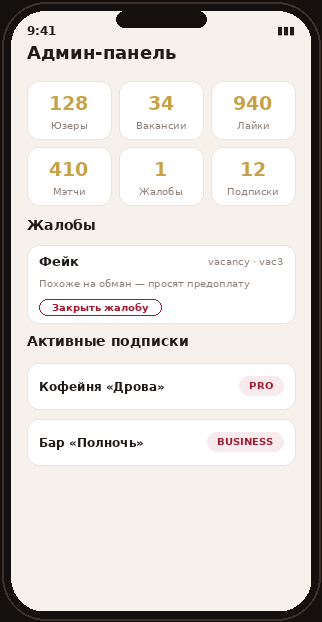
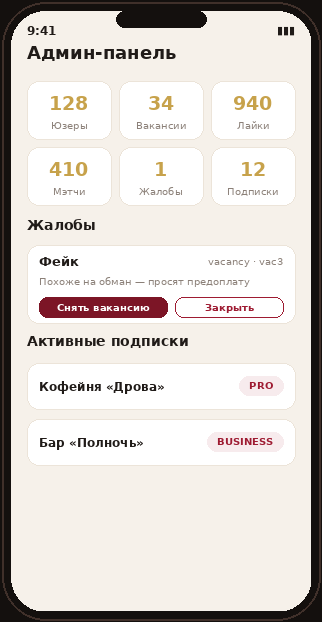
feat(модерация): блокировка нарушителей в админке
По вопросу «что делать с мошенником/фейком»: раньше жалобу можно было только
закрыть. Добавлены реальные действия:
- backend: флаг blocked у User/Employer (+миграция); /admin/users/{id}/block
  (бан соискателя/работодателя — заблокированный не может войти, его вакансии
  снимаются), /admin/vacancies/{id}/block (снять фейковую смену — исчезает из
  ленты). Блокировка авто-закрывает связанные жалобы. Заблокированные кандидаты
  скрыты из ленты работодателя. Тест на бан вакансии и пользователя.
- TMA: в карточке жалобы кнопки «🚫 Снять вакансию» / «🚫 Заблокировать»
  (по типу жалобы) + «Закрыть». endpoints/mock.

backend 45 тестов + ruff + миграции, TMA lint+typecheck+test+build — зелёные.

Claude-Session: https://claude.ai/code/session_01SsK4JkXHc9STqXAAu9aqgD

Changed region(s): [[0.1242, 0.4277, 0.559, 0.5193], [0.5901, 0.4277, 0.8075, 0.5193]]

diff --git a/tma/src/features/admin/AdminPage.tsx b/tma/src/features/admin/AdminPage.tsx
@@ -2,6 +2,8 @@ import { useEffect } from "react";
 import { useNavigate } from "react-router-dom";
 import { useQuery, useQueryClient } from "@tanstack/react-query";
 import {
+  blockUser,
+  blockVacancy,
   fetchAdminOverview,
   fetchAdminReports,
   fetchAdminSubscriptions,
@@ -43,12 +45,28 @@ export function AdminPage() {
     queryFn: fetchAdminSubscriptions,
   });
 
+  function refresh() {
+    qc.invalidateQueries({ queryKey: ["admin-reports"] });
+    qc.invalidateQueries({ queryKey: ["admin-overview"] });
+  }
+
   async function resolve(id: string) {
     haptic("success");
     await resolveReport(id);
     toast("Жалоба закрыта", "success");
-    qc.invalidateQueries({ queryKey: ["admin-reports"] });
-    qc.invalidateQueries({ queryKey: ["admin-overview"] });
+    refresh();
+  }
+
+  async function blockTarget(type: string, targetId: string) {
+    haptic("success");
+    if (type === "vacancy") {
+      await blockVacancy(targetId);
+      toast("Вакансия снята с публикации", "success");
+    } else {
+      await blockUser(targetId);
+      toast("Пользователь заблокирован", "success");
+    }
+    refresh();
   }
 
   // 403 для не-админа → показываем заглушку.
@@ -106,13 +124,29 @@ export function AdminPage() {
               </span>
             </div>
             {r.text && <div className="muted" style={{ margin: "6px 0" }}>{r.text}</div>}
-            <button
-              className="btn ghost"
-              style={{ marginTop: 8 }}
-              onClick={() => resolve(r.id)}
-            >
-              Закрыть жалобу
-            </button>
+            <div className="row" style={{ gap: 8, marginTop: 8 }}>
+              {r.targetType === "vacancy" && (
+                <button
+                  className="btn"
+                  style={{ background: "var(--crimson-dark)" }}
+                  onClick={() => blockTarget("vacancy", r.targetId)}
+                >
+                  🚫 Снять вакансию
+                </button>
+              )}
+              {r.targetType === "user" && (
+                <button
+                  className="btn"
+                  style={{ background: "var(--crimson-dark)" }}
+                  onClick={() => blockTarget("user", r.targetId)}
+                >
+                  🚫 Заблокировать
+                </button>
+              )}
+              <button className="btn ghost" onClick={() => resolve(r.id)}>
+                Закрыть жалобу
+              </button>
+            </div>
           </div>
         ))}
       </div>

diff --git a/tma/src/api/endpoints.ts b/tma/src/api/endpoints.ts
@@ -297,6 +297,18 @@ export async function resolveReport(id: string): Promise<void> {
   await api.post(`/admin/reports/${id}/resolve`, {});
 }
 
+/** Заблокировать пользователя (соискателя/работодателя). */
+export async function blockUser(userId: string): Promise<void> {
+  if (!USE_BACKEND) return mock.resolveReport("");
+  await api.post(`/admin/users/${userId}/block`, {});
+}
+
+/** Снять вакансию (фейк/обман) с публикации. */
+export async function blockVacancy(vacancyId: string): Promise<void> {
+  if (!USE_BACKEND) return mock.resolveReport("");
+  await api.post(`/admin/vacancies/${vacancyId}/block`, {});
+}
+
 export async function fetchAdminSubscriptions(): Promise<AdminSubscription[]> {
   if (!USE_BACKEND) return mock.fetchAdminSubscriptions();
   const { data } = await api.get<AdminSubscription[]>("/admin/subscriptions");

diff --git a/backend/app/routers/admin.py b/backend/app/routers/admin.py
@@ -116,6 +116,50 @@ def resolve_report(
     return {"ok": True}
 
 
+def _resolve_reports_for(db: Session, target_id: str) -> None:
+    """Закрыть все открытые жалобы на эту цель."""
+    for r in db.query(Report).filter(
+        Report.target_id == target_id, Report.status == "open"
+    ).all():
+        r.status = "reviewed"
+
+
[email redacted]("/users/{user_id}/block")
+def block_user(
+    user_id: str,
+    db: Session = Depends(get_db),
+    _admin: dict = Depends(require_admin),
+):
+    """Заблокировать соискателя или работодателя (бан мошенника)."""
+    target = db.get(User, user_id) or db.get(Employer, user_id)
+    if target is None:
+        raise HTTPException(status_code=404, detail="Пользователь не найден")
+    target.blocked = True
+    # Если это работодатель — снимаем и его вакансии.
+    if isinstance(target, Employer):
+        for v in db.query(Vacancy).filter(Vacancy.employer_id == user_id).all():
+            v.status = "blocked"
+    _resolve_reports_for(db, user_id)
+    db.commit()
+    return {"ok": True, "blocked": True}
+
+
[email redacted]("/vacancies/{vacancy_id}/block")
+def block_vacancy(
+    vacancy_id: str,
+    db: Session = Depends(get_db),
+    _admin: dict = Depends(require_admin),
+):
+    """Снять вакансию (фейк/обман) — она исчезает из ленты."""
+    v = db.get(Vacancy, vacancy_id)
+    if v is None:
+        raise HTTPException(status_code=404, detail="Вакансия не найдена")
+    v.status = "blocked"
+    _resolve_reports_for(db, vacancy_id)
+    db.commit()
+    return {"ok": True, "blocked": True}
+
+
 class SubscriptionOut(BaseModel):
     ownerId: str
     company: str

diff --git a/backend/migrations/versions/52f24481daa9_add_blocked_flag.py b/backend/migrations/versions/52f24481daa9_add_blocked_flag.py
@@ -1,0 +1,34 @@
+"""add blocked flag
+
+Revision ID: 52f24481daa9
+Revises: 0c0ddf98d3eb
+Create Date: 2026-06-21 00:51:20.421333
+
+"""
+from typing import Sequence, Union
+
+from alembic import op
+import sqlalchemy as sa
+
+
+# revision identifiers, used by Alembic.
+revision: str = '52f24481daa9'
+down_revision: Union[str, Sequence[str], None] = '0c0ddf98d3eb'
+branch_labels: Union[str, Sequence[str], None] = None
+depends_on: Union[str, Sequence[str], None] = None
+
+
+def upgrade() -> None:
+    """Upgrade schema."""
+    # ### commands auto generated by Alembic - please adjust! ###
+    op.add_column('employers', sa.Column('blocked', sa.Boolean(), nullable=False))
+    op.add_column('users', sa.Column('blocked', sa.Boolean(), nullable=False))
+    # ### end Alembic commands ###
+
+
+def downgrade() -> None:
+    """Downgrade schema."""
+    # ### commands auto generated by Alembic - please adjust! ###
+    op.drop_column('users', 'blocked')
+    op.drop_column('employers', 'blocked')
+    # ### end Alembic commands ###

diff --git a/backend/tests/test_extra.py b/backend/tests/test_extra.py
@@ -186,3 +186,27 @@ def test_admin_endpoints_forbidden_for_non_admin(client):
     assert client.post("/admin/reports/any/resolve", headers=h).status_code == 403
     # Совсем без токена — тоже закрыто.
     assert client.get("/admin/overview").status_code == 401
+
+
+def test_admin_block_user_and_vacancy(client):
+    admin = client.post("/auth/telegram", json={"init_data": "", "role": "seeker"})
+    ah = {"Authorization": f"Bearer {admin.json()['access_token']}"}
+    # Работодатель + вакансия.
+    emp = client.post("/auth/telegram", json={"init_data": "", "role": "employer"})
+    eid = emp.json()["user_id"]
+    eh = {"Authorization": f"Bearer {emp.json()['access_token']}"}
+    vac = client.post("/vacancies", headers=eh, json={
+        "role": "barista", "date": "2026-06-20", "start_time": 600,
+        "end_time": 1080, "rate": 350, "city": "Москва",
+    }).json()
+    # Снять вакансию → исчезает из ленты.
+    bv = client.post(f"/admin/vacancies/{vac['id']}/block", headers=ah)
+    assert bv.status_code == 200
+    feed_ids = {v["id"] for v in client.get("/vacancies").json()}
+    assert vac["id"] not in feed_ids
+    # Заблокировать работодателя → больше не может войти.
+    assert client.post(f"/admin/users/{eid}/block", headers=ah).status_code == 200
+    blocked_login = client.post(
+        "/auth/telegram", json={"init_data": "", "role": "employer"}
+    )
+    assert blocked_login.status_code == 403

diff --git a/tool/flow_gif.py b/tool/flow_gif.py
@@ -339,9 +339,11 @@ def admin_screen():
     rr(d, [16, 234, W - 16, 312], 12, fill=CARD, outline=LINE)
     T(d, (28, 250), "Фейк", F(13, True), INK, "lm")
     T(d, (W - 28, 250), "vacancy · vac3", F(10), MUTED, "rm")
-    T(d, (28, 272), "Похоже на обман — просят предоплату", F(10.5), MUTED, "lm")
-    rr(d, [28, 288, 150, 304], 8, outline=CRIM, width=1)
-    T(d, (89, 296), "Закрыть жалобу", F(10.5, True), CRIM, "mm")
+    T(d, (28, 270), "Похоже на обман — просят предоплату", F(10.5), MUTED, "lm")
+    rr(d, [28, 286, 156, 306], 8, fill=CRIM_D)
+    T(d, (92, 296), "Снять вакансию", F(10.5, True), WHITE, "mm")
+    rr(d, [164, 286, 272, 306], 8, outline=CRIM, width=1)
+    T(d, (218, 296), "Закрыть", F(10.5, True), CRIM, "mm")
     T(d, (16, 330), "Активные подписки", F(14, True), INK, "lm")
     subs = [("Кофейня «Дрова»", "PRO"), ("Бар «Полночь»", "BUSINESS")]
     y = 352

diff --git a/backend/app/routers/telegram_auth.py b/backend/app/routers/telegram_auth.py
@@ -70,6 +70,8 @@ def telegram_login(body: TelegramAuthIn, db: Session = Depends(get_db)):
 
     if body.role == "employer":
         emp = db.query(Employer).filter(Employer.tg_id == tg_id).first()
+        if emp is not None and emp.blocked:
+            raise HTTPException(status_code=403, detail="Аккаунт заблокирован")
         if emp is None:
             emp = Employer(
                 tg_id=tg_id,
@@ -92,6 +94,8 @@ def telegram_login(body: TelegramAuthIn, db: Session = Depends(get_db)):
         )
 
     user = db.query(User).filter(User.tg_id == tg_id).first()
+    if user is not None and user.blocked:
+        raise HTTPException(status_code=403, detail="Аккаунт заблокирован")
     if user is None:
         user = User(
             tg_id=tg_id,

diff --git a/backend/app/models.py b/backend/app/models.py
@@ -50,6 +50,7 @@ class User(Base):
     rating: Mapped[float] = mapped_column(Float, default=0.0)
     photo_urls: Mapped[str] = mapped_column(Text, default="")  # csv
     about: Mapped[str] = mapped_column(Text, default="")
+    blocked: Mapped[bool] = mapped_column(Boolean, default=False)  # бан админом
     created_at: Mapped[datetime] = mapped_column(DateTime, default=_now)
 
 
@@ -74,6 +75,7 @@ class Employer(Base):
     contact_phone: Mapped[str] = mapped_column(String, default="")
     photo_url: Mapped[str] = mapped_column(String, default="")
     rating: Mapped[float] = mapped_column(Float, default=0.0)
+    blocked: Mapped[bool] = mapped_column(Boolean, default=False)  # бан админом
     created_at: Mapped[datetime] = mapped_column(DateTime, default=_now)
 
     vacancies: Mapped[list["Vacancy"]] = relationship(back_populates="employer")

diff --git a/backend/app/routers/candidates.py b/backend/app/routers/candidates.py
@@ -39,7 +39,7 @@ def list_candidates(
     # Ленту кандидатов с ПДн видит только работодатель.
     if principal["role"] != "employer":
         raise HTTPException(status_code=403, detail="Только для работодателя")
-    users = db.query(User).limit(50).all()
+    users = db.query(User).filter(User.blocked.is_(False)).limit(50).all()
     return [
         CandidateOut(
             id=u.id,